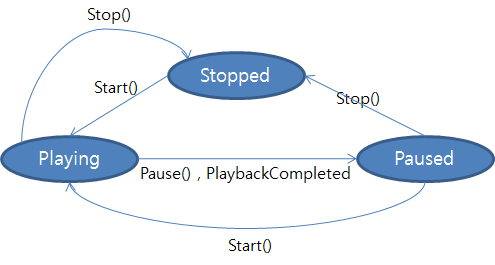
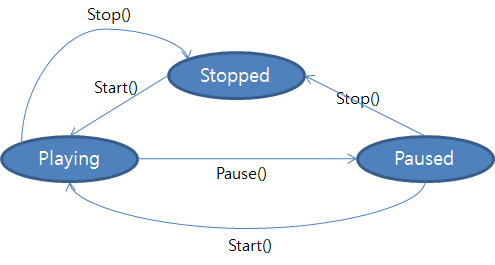
Fix PlaybackCompleted state transit

Changed region(s): [[0.2727, 0.6038, 0.7273, 0.6943]]

diff --git a/src/Tizen.TV.UIControls.Forms/Renderer/MediaPlayerImpl.cs b/src/Tizen.TV.UIControls.Forms/Renderer/MediaPlayerImpl.cs
@@ -396,11 +396,6 @@ namespace Tizen.TV.UIControls.Forms.Renderer
         void OnPlaybackCompleted(object sender, EventArgs e)
         {
             PlaybackCompleted?.Invoke(this, EventArgs.Empty);
-            // Workaround for TV
-            // On TV, At PlaybackComplated, Pause was not working. need to try start and pause again
-            _player.Pause();
-            _player.Start();
-            Pause();
         }
 
         async Task ChangeToIdleState()
